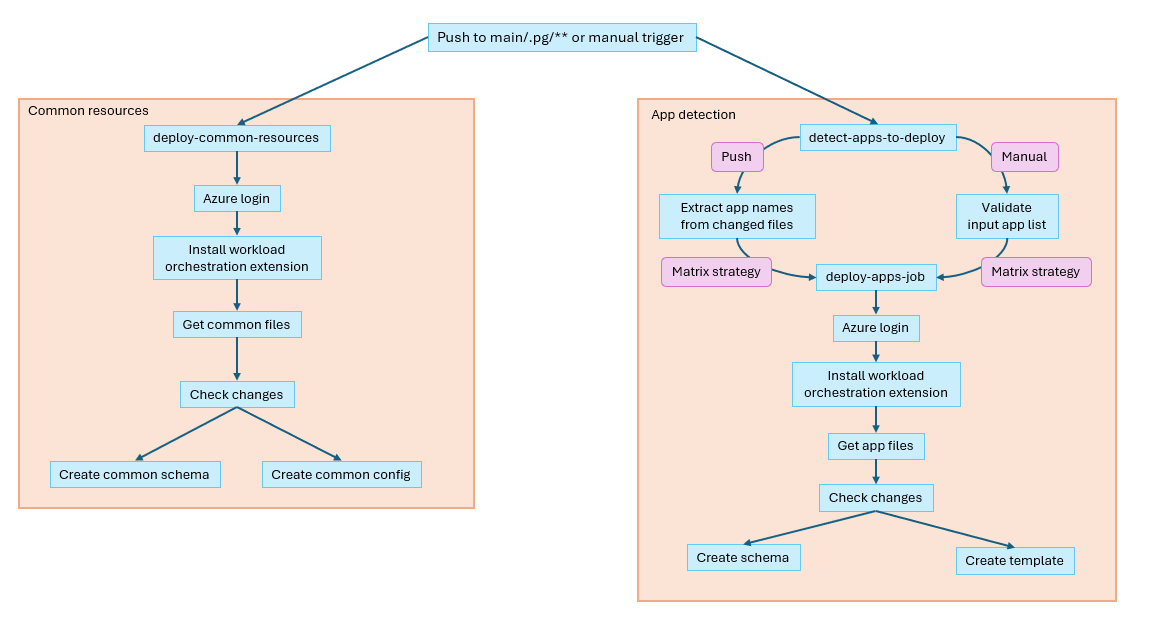
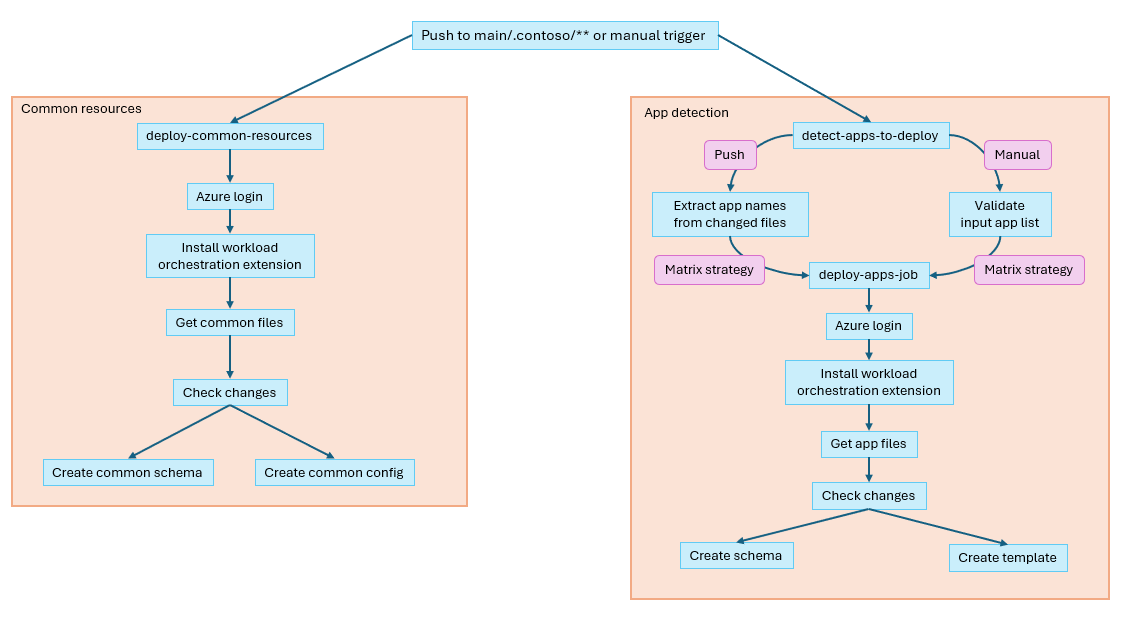
Feedback before GA

Changed region(s): [[0.5565, 0.121, 0.9894, 0.9682], [0.0, 0.0303, 0.6802, 0.8169]]

diff --git a/articles/azure-arc/workload-orchestration/initial-setup-environment.md b/articles/azure-arc/workload-orchestration/initial-setup-environment.md
@@ -44,7 +44,7 @@ This article describes how to prepare the environment for workload orchestration
   ```  
  
 > [!IMPORTANT]
-> Standard Azure resources, such as Arc-enabled Kubernetes clusters and custom location, and workload orchestration resources, such as context, targets, and solutions, should be created in the same Azure region. 
+> Standard Azure resources, such as Arc-enabled Kubernetes clusters and custom location, and workload orchestration resources, such as context, targets, and solutions, must be created in the same Azure region. 
 
 ## System requirements
 
@@ -204,7 +204,7 @@ The following steps are required to set up the Azure resources for workload orch
     ```bash
     az identity create --resource-group "$rg" --name "$clusterName"
     clusterIdentity=$(az identity show --resource-group "$rg" --name "$clusterName" --query id --output tsv)
-    az aks create --resource-group "$rg" --location "$l" --name "$clusterName" --node-count 2 --assign-identity "$clusterIdentity" --generate-ssh-keys
+    az aks create --resource-group "$rg" --location "$l" --name "$clusterName" --node-count "<node-count>" --assign-identity "$clusterIdentity" --generate-ssh-keys
     ```
 
     > [!NOTE]
@@ -249,7 +249,7 @@ The following steps are required to set up the Azure resources for workload orch
     ```powershell
     az identity create --resource-group $rg --name $clusterName
     $clusterIdentity = az identity show --resource-group $rg --name $clusterName --query id --output tsv
-    az aks create --resource-group $rg --location $l --name $clusterName --node-count 2 --assign-identity $clusterIdentity --generate-ssh-keys
+    az aks create --resource-group $rg --location $l --name $clusterName --node-count <node-count> --assign-identity $clusterIdentity --generate-ssh-keys
     ```
 
     > [!NOTE]
@@ -285,29 +285,28 @@ The following steps are required to install workload orchestration service compo
     az k8s-extension create --resource-group "$rg" --cluster-name "$clusterName" --name "aio-certmgr" --cluster-type connectedClusters --extension-type microsoft.iotoperations.platform --scope cluster --release-namespace cert-manager
     ```
 
-1. Determine persistent volume storage class for the cluster. From the storage class list, pick one to use as the persistent volume storage class for workload orchestration extension in the next step.
-
-    ```bash
-    kubectl get sc
-    ```
-
 1. Determine if you installed the `microsoft.workloadorchestration` Arc extension on the Arc cluster. 
 
     ```bash
     az k8s-extension list --resource-group "$rg" --cluster-name "$clusterName" --cluster-type connectedClusters --query "[?extensionType=='microsoft.workloadorchestration'].name"
     ```
  
-    1. If the output returns an empty list, it means you don't have the `microsoft.workloadorchestration` extension installed on your Arc cluster. Run the following command to install the extension:
+    1. If the output returns an empty list, it means you don't have the `microsoft.workloadorchestration` extension installed on your Arc cluster. Run the following command and pick a storage class list to use as the persistent volume storage class for workload orchestration extension.
+
+        ```bash
+        kubectl get sc
+        ```
+    Run the following command to install the`microsoft.workloadorchestration` extension:
     
         ```bash
         storageClassName="<pick up one storage class from 'kubectl get sc'>"
-        az k8s-extension create --resource-group "$rg" --cluster-name "$clusterName" --cluster-type connectedClusters --name "$extensionName" --extension-type Microsoft.workloadorchestration --scope cluster --release-train preview --version "$extensionVersion" --auto-upgrade false --config redis.persistentVolume.storageClass="$storageClassName" --config redis.persistentVolume.size=20Gi
+        az k8s-extension create --resource-group "$rg" --cluster-name "$clusterName" --cluster-type connectedClusters --name "$extensionName" --extension-type Microsoft.workloadorchestration --scope cluster --release-train stable --config redis.persistentVolume.storageClass="$storageClassName" --config redis.persistentVolume.size=20Gi
         ```
 
     1. If you already installed the `microsoft.workloadorchestration` Arc extension, you can update it. Make sure to replace `<extensionName>` with the name of your existing extension. 
     
         ```bash
-        az k8s-extension update --resource-group "$rg" --cluster-name "$clusterName" --cluster-type connectedClusters --name "$extensionName" --release-train preview --version "$extensionVersion" --auto-upgrade false
+        az k8s-extension update --resource-group "$rg" --cluster-name "$clusterName" --cluster-type connectedClusters --name "$extensionName" --release-train stable  --auto-upgrade true
         ``` 
 
 1. Enable custom location for the cluster.
@@ -368,29 +367,28 @@ The following steps are required to install workload orchestration service compo
     az k8s-extension create --resource-group $rg --cluster-name $clusterName --name "aio-certmgr" --cluster-type connectedClusters --extension-type microsoft.iotoperations.platform --scope cluster --release-namespace cert-manager
     ```
 
-1. Determine persistent volume storage class for the cluster. From the storage class list, pick one to use as the persistent volume storage class for workload orchestration extension in the next step.
-
-    ```powershell
-    kubectl get sc
-    ```
-
 1. Determine if you installed the `microsoft.workloadorchestration` Arc extension on the Arc cluster. 
 
     ```powershell
     az k8s-extension list --resource-group $rg --cluster-name $clusterName --cluster-type connectedClusters --query "[?extensionType=='microsoft.workloadorchestration'].name"
     ```
  
-    1. If the output returns an empty list, it means you don't have the `microsoft.workloadorchestration` extension installed on your Arc cluster. Run the following command to install the extension:
+    1. If the output returns an empty list, it means you don't have the `microsoft.workloadorchestration` extension installed on your Arc cluster. Run the following command and pick a storage class list to use as the persistent volume storage class for workload orchestration extension.
+
+        ```bash
+        kubectl get sc
+        ```
+    Run the following command to install the`microsoft.workloadorchestration` extension:
     
         ```powershell
         $storageClassName = "<pick up one storage class from 'kubectl get sc'>"
-        az k8s-extension create --resource-group $rg --cluster-name $clusterName --cluster-type connectedClusters --name $extensionName --extension-type Microsoft.workloadorchestration --scope cluster --release-train preview --version $extensionVersion --auto-upgrade $false --config redis.persistentVolume.storageClass=$storageClassName --config redis.persistentVolume.size=20Gi
+        az k8s-extension create --resource-group $rg --cluster-name $clusterName --cluster-type connectedClusters --name $extensionName --extension-type Microsoft.workloadorchestration --scope cluster --release-train stable --config redis.persistentVolume.storageClass=$storageClassName --config redis.persistentVolume.size=20Gi
         ```      
 
     1. If you already installed the `microsoft.workloadorchestration` Arc extension, you can update it. Make sure to replace `<extensionName>` with the name of your existing extension. 
     
         ```powershell
-        az k8s-extension update --resource-group $rg --cluster-name $clusterName --cluster-type connectedClusters --name $extensionName --release-train preview --version $extensionVersion --auto-upgrade false
+        az k8s-extension update --resource-group $rg --cluster-name $clusterName --cluster-type connectedClusters --name $extensionName --release-train stable  --auto-upgrade true
         ```
 
 1. Enable custom location for the cluster.
@@ -588,8 +586,6 @@ To use a resource group, run the following commands:
 
 [!INCLUDE [form-feedback-note](includes/form-feedback.md)]
 
-## Related content
+## Next steps
 
-- [Setup workload orchestration](initial-setup-configuration.md)
-- [Onboarding scripts](onboarding-scripts.md)
-- [Service groups for workload orchestration](service-group.md)
+Once you have prepared the environment and the global variables, you can proceed to [Set up workload orchestration](initial-setup-configuration.md).

diff --git a/articles/azure-arc/workload-orchestration/github-actions.md b/articles/azure-arc/workload-orchestration/github-actions.md
@@ -29,14 +29,16 @@ The workflow requires the following environment variables:
 
 ## Required files
 
-Each application under the `.pg/apps` directory requires these files in its workload-orchestration directory: 
+The GitHub action processes files in the `.contoso/apps` directory of the repository. Each application has its own subdirectory under `.contoso/apps/<app>/workload-orchestration/`, and common resources are located under `.contoso/apps/common/`. The name "contoso" is a placeholder and can be replaced with your organization's name or any other identifier.
+
+Each application under the `.contoso/apps` directory requires these files in its workload-orchestration directory: 
 
 - *schema.yaml: Defines the schema for workload orchestration.
 - *-sol-template.yaml: Contains the solution template configuration.
 - *specs.json: Specifies the deployment specifications.
 - metadata.yaml: Contains metadata like capabilities and external validation settings. 
 
-The common resources under `.pg/apps/common` include: 
+The common resources under `.contoso/apps/common` include: 
 
 - common-schema.yaml: Common schema shared across applications. 
 - common-config-template.yaml: Common configuration template. 
@@ -55,7 +57,7 @@ The following table compares the features and behaviors of the push trigger and 
 | Feature      | Push Trigger | Manual Trigger |
 |--------------|--------------|---------------|
 | When     | Activates on push to main branch | Manually triggered via GitHub Actions UI |
-| Files    | - App changes: Processes changed files in `.pg/apps/<app>/workload-orchestration/**`<br> - Common changes: Processes changed files in `.pg/apps/common/*` | Processes all files for specified apps/resources |
+| Files    | - App changes: Processes changed files in `.contoso/apps/<app>/workload-orchestration/**`<br> - Common changes: Processes changed files in `.contoso/apps/common/*` | Processes all files for specified apps/resources |
 | App Detection | Automatically detects apps from changed file paths (excludes common) | User provides comma-separated list (for example, `testapp1,testapp2`) |
 | Actions* | - Creates/updates schema if schema file changed<br>- Creates/updates template if template, specs, or metadata file changed<br>- Creates/updates common resources if common files changed | - User chooses which common resources to deploy: none, schema-only, config-only, or all<br>- User chooses app actions: none, create-schema, create-sol-template, or all |
 | Validation | Directory existence checked automatically | Validates each directory exists before processing |
@@ -88,8 +90,8 @@ The deployment process begins with detecting and validating the resources that n
 
 #### Push Event:
 
-1. Detects application names by analyzing changed file paths under `.pg/apps/$app/workload-orchestration/`.
-1. Identifies updates to common resources by checking for changes in `.pg/apps/common/*`.
+1. Detects application names by analyzing changed file paths under `.contos/apps/$app/workload-orchestration/`.
+1. Identifies updates to common resources by checking for changes in `.contoso/apps/common/*`.
 1. Automatically validates YAML files using `yq` to ensure correctness.
 1. Compiles lists of applications and common resources that require deployment.
 1. Determines required actions based on the specific files that were modified.
@@ -123,10 +125,7 @@ The file processing step is crucial for deploying workload orchestration configu
 
 For each app to deploy, the following steps are performed: 
 
-1. Get files: 
-
-    - Locates required files in `.pg/apps/$app/workload-orchestration/` directory. 
-    - Required patterns: *schema.yaml, *-sol-template.yaml, *specs.json, and metadata.yaml 
+1. Locates and gets the required files in `.contoso/apps/$app/workload-orchestration/` directory, which are *schema.yaml, *-sol-template.yaml, *specs.json, and metadata.yaml.
 
 1. Schema creation: 
 
@@ -168,9 +167,9 @@ For each app to deploy, the following steps are performed:
     
     1. Creates new template only if version doesn't exist: 
     
-    ```powershell
-    az workload-orchestration solution-template create -g <resource-group> -l <location> --capabilities <from-metadata-or-input> --configuration-template-file <template-path> --specification <specs-path> --description <description> --enable-external-validation <true/false>
-    ```
+        ```powershell
+        az workload-orchestration solution-template create -g <resource-group> -l <location> --capabilities <from-metadata-or-input> --configuration-template-file <template-path> --specification <specs-path> --description <description> --enable-external-validation <true/false>
+        ```
 
 > [!NOTE]
 > - Ensure capabilities are provided either in `metadata.yaml` file or as input.
@@ -179,7 +178,7 @@ For each app to deploy, the following steps are performed:
 
 #### File processing in common resources 
 
-For common resources, the process is similar but focuses on the common schema and configuration template files:
+For common resources, the process is similar but focuses on the common schema and configuration template files.
 
 1. Schema creation:
 
@@ -192,12 +191,12 @@ For common resources, the process is similar but focuses on the common schema an
     1. Creates new schema only if version doesn't exist: 
     
         ```powershell
-        az workload-orchestration schema create -g <resource-group> -l <location> --schema-file .pg/apps/common/common-schema.yaml 
+        az workload-orchestration schema create -g <resource-group> -l <location> --schema-file .contoso/apps/common/common-schema.yaml 
         ```
 
     1. Schema name and version are extracted from metadata section in schema file. 
 
-1. Config Template Creation: 
+1. Config template creation: 
 
     1. Extracts metadata from template file: 
 
@@ -250,8 +249,8 @@ The following best practices help maintain a clean and efficient workflow orches
 
 ### File organization 
 
-- Keep all app files in `.pg/apps/<app>/workload-orchestration/` directory.
-- Keep all common files in `.pg/apps/common/` directory.
+- Keep all app files in `.contoso/apps/<app>/workload-orchestration/` directory.
+- Keep all common files in `.contoso/apps/common/` directory.
 - Use consistent naming patterns.
 - Maintain `metadata.yaml` with current capabilities.
 

diff --git a/articles/azure-arc/workload-orchestration/initial-setup-configuration.md b/articles/azure-arc/workload-orchestration/initial-setup-configuration.md
@@ -91,7 +91,11 @@ The following steps show how to configure the resources of workload orchestratio
       --capabilities '[{"name":"soap","description":"For soap production"},{"name":"shampoo","description":"For shampoo production"},{"name":"conditioner","description":"For conditioner production"}]'
     ```
 
-    You can expand or reduce the capabilities by running the `context update` command while passing the desired list into it. You can add more capabilities, but removing and deleting isn't supported currently.
+    You can also use an already existing context by running the `context update` command with the `--context-id` parameter while passing the desired list of capabilities and hierarchies into it. You can add more capabilities, but removing and deleting isn't supported.
+    
+    ```powershell
+    az workload-orchestration context update --context-id "/subscriptions/$subId/resourceGroups/$rg/providers/private.edge/context/$contextName" --hierarchies "<hierarchies-list" --capabilities "<capabilities-list>"
+    ``` 
 
     > [!NOTE]
     > The context name must be between 3 and 61 characters in length and follow the naming pattern defined by the regular expression `^a-zA-Z0-9?(\.a-zA-Z0-9?)*$`. This means:
@@ -167,7 +171,11 @@ The following steps show how to configure the resources of workload orchestratio
     az workload-orchestration context create --subscription $subId --resource-group $rg --location $l --name $instanceName --hierarchies "[0].name=factory" "[0].description=belongs to Factory and hence lines within the factory" "[1].name=line" "[1].description=belongs to specific line" --capabilities "[0].name=soap" "[0].description=For soap production" "[1].name=shampoo" "[1].description=For shampoo production" "[2].name=conditioner" "[2].description=For conditioner production"
     ```
 
-    You can expand or reduce the capabilities by running the `context update` command while passing the desired list into it. You can add more capabilities, but removing and deleting isn't supported currently.
+    You can also use an already existing context by running the `context update` command with the `--context-id` parameter while passing the desired list of capabilities and hierarchies into it. You can add more capabilities, but removing and deleting isn't supported.
+    
+    ```powershell
+    az workload-orchestration context update --context-id /subscriptions/$subId/resourceGroups/$rg/providers/private.edge/contexts/$contextName --hierarchies "<hierarchies-list" --capabilities "<capabilities-list>"
+    ``` 
 
     > [!NOTE]
     > The context name must be between 3 and 61 characters in length and follow the naming pattern defined by the regular expression `^a-zA-Z0-9?(\.a-zA-Z0-9?)*$`. This means:
@@ -201,9 +209,7 @@ The following steps show how to configure the resources of workload orchestratio
 
 [!INCLUDE [form-feedback-note](includes/form-feedback.md)]
 
-## Related content
+## Next steps
 
-- [Onboarding scripts](onboarding-scripts.md)
-- [Prepare the environment for workload orchestration](initial-setup-environment.md)
-- [Service groups for workload orchestration](service-group.md)
-- [Monitor your solutions in Azure portal](azure-portal-monitoring.md)
+Once you have set up the infrastructure and the workload orchestration resources, you can start authoring solutions and managing deployments. To get started, see the [Quickstart: Create a basic solution](quickstart-solution-without-commmon-configuration.md), to learn how to create a basic solution, configure it, and deploy it to a target.
+

diff --git a/articles/azure-arc/workload-orchestration/known-issues.md b/articles/azure-arc/workload-orchestration/known-issues.md
@@ -33,15 +33,6 @@ This issue affects Azure CLI version 2.70.0 and occurs when using the `az custom
 
 After creating the custom location through the portal, run the onboarding script with `-skipCustomLocationCreation` set to `$true` to skip this step.
 
-
-## Bulk deployment response lists a single deployed target 
-
-When executing a [bulk deployment](bulk-deployment.md), the CLI response only lists one target in the `DeployedTargets` array, even though all the targets are successfully deployed. 
-
-In the case of deployment failure, the CLI returns an error message and only lists one target under both `DeployedTargets` and `FailedTargets` arrays, even though the deployment fails. 
-
-The message in the CLI response is a known issue and doesn't reflect the actual deployment status of the targets. Check the [workload orchestration portal](deploy.md) to verify the application status for each target. 
-
 ## Contact support
 
 [!INCLUDE [form-feedback-note](includes/form-feedback.md)]

diff --git a/articles/azure-arc/workload-orchestration/bulk-deployment.md b/articles/azure-arc/workload-orchestration/bulk-deployment.md
@@ -55,7 +55,7 @@ The `solutionInstanceName` parameter can be given for each target as part of tar
 You can perform bulk publishing of a solution to multiple targets using the **Configure tab** in workload orchestration portal. 
 
 - In the **Solutions subtab**, when you configure the parameters of the solution, select the targets where you want to publish the solution. For more information, see [Configure solution parameters](configure.md#configure-solution-parameters).
-- In the **Published Solutions subtab**, you can publish a solution to more targets after the solution is published. For more information, see [Publish a solution to more targets](configure.md#publish-solution-to-more-targets).
+- In the **Published Solutions subtab**, you can publish a solution to more targets after the solution is published. For more information, see [Publish a solution to more targets](configure.md#publish-a-solution-to-more-targets).
 
 ***
 

diff --git a/articles/azure-arc/workload-orchestration/workflow-features.md b/articles/azure-arc/workload-orchestration/workflow-features.md
@@ -24,7 +24,7 @@ The process of authoring and deploying solutions using workload orchestration in
 
 ### Hierarchical configuration authoring
 
-Solution authoring requires seamless integration of workload orchestration-managed ARM assets with user-provided artifacts, such as Helm charts and container images. Workload orchestration supports both CLI and portal-based methods for authoring solution configurations across various use cases.
+Solution authoring requires seamless integration of workload orchestration-managed ARM assets with user-provided artifacts, such as Helm charts and container images.
 
 The diagram below represents an example hierarchical configuration of objects:
 

diff --git a/articles/azure-arc/workload-orchestration/release-notes.md b/articles/azure-arc/workload-orchestration/release-notes.md
@@ -45,6 +45,10 @@ To migrate your existing workload orchestration target resources to the GA versi
 |`az workload-orchestration target uninstall`|`--solution-name`|`--solution-template-id`|
 |`az workload-orchestration target remove-revision`|`--solution-name`|`--solution-template-id`|
 
+### Bug fixes
+
+- Fixed issue with bulk deployment where the CLI response only listed one target in the `DeployedTargets` array, even when multiple targets were successfully deployed. The CLI now correctly lists all deployed targets.
+
 ## June 2025 release
 
 ### New features

diff --git a/articles/azure-arc/workload-orchestration/includes/cli-version-note.md b/articles/azure-arc/workload-orchestration/includes/cli-version-note.md
@@ -9,4 +9,4 @@ ms.author: sonialopez
 
 > [!NOTE]
 > - **Cloud extension 1.1.8**: The latest version of the workload-orchestration CLI is 1.1.8. Download it [here](https://github.com/microsoft/AEP/blob/main/content/en/docs/Configuration%20Manager%20(Public%20Preview)/Scripts%20for%20Onboarding/Configuration%20manager%20files.zip)
-> - **Arc extension 2.1.0**: The latest version of the Microsoft.workloadorchestration is 2.1.0.
+> - **Arc extension 2.1.2**: The latest version of the Microsoft.workloadorchestration is 2.1.2.
